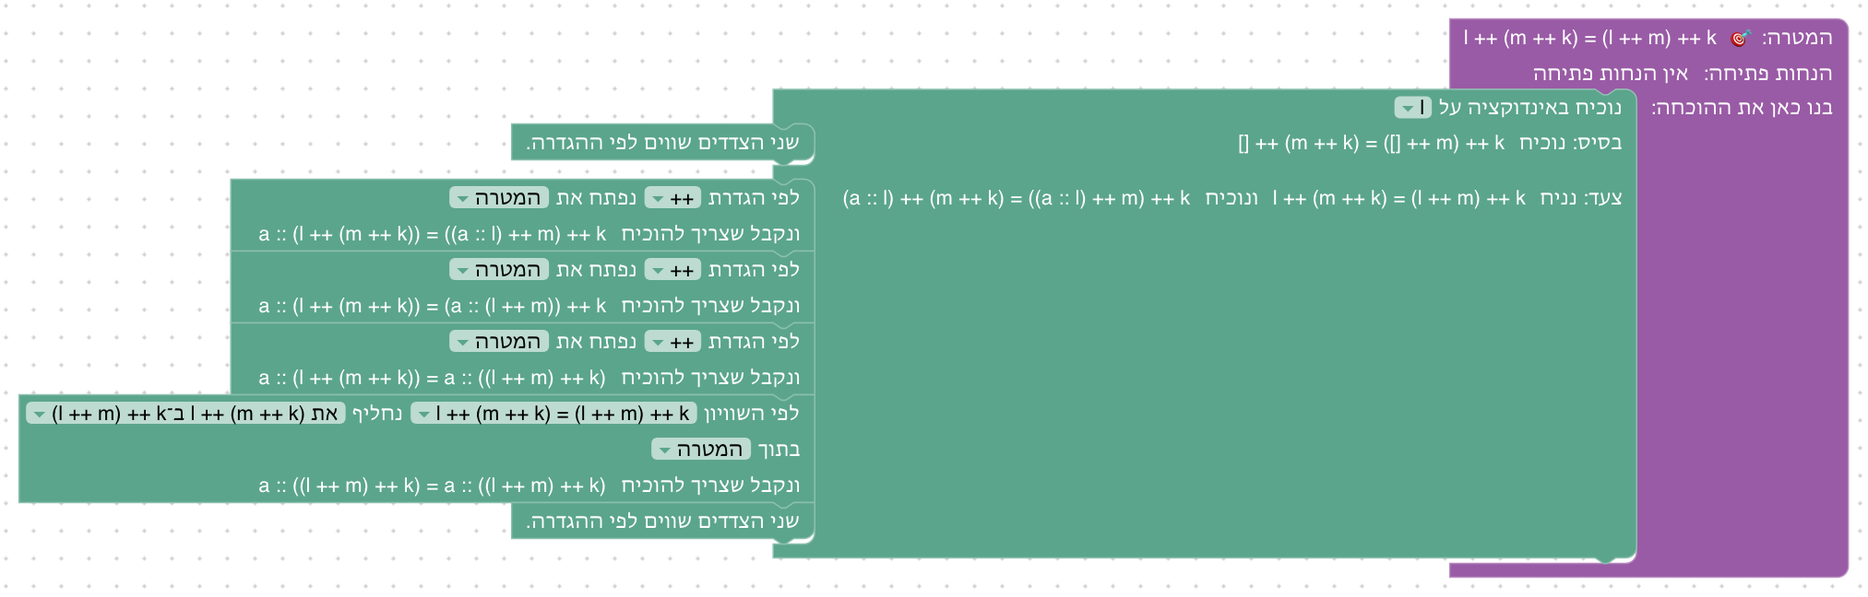
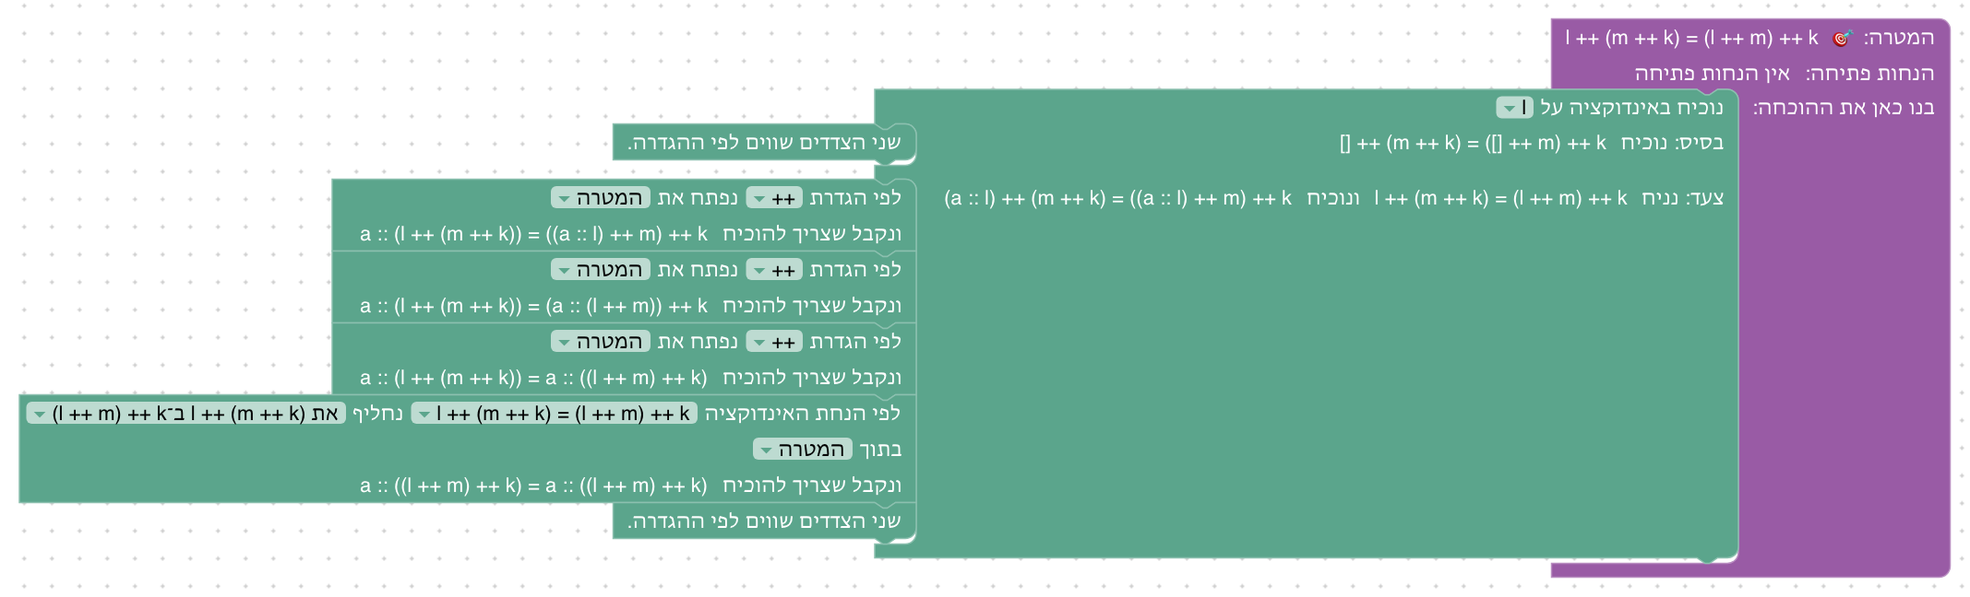
Name the induction hypothesis where a move uses it
In a step of an induction, a substitution by one of its hypotheses reads
"לפי הנחת האינדוקציה … נחליף …", closing with one reads "זו בדיוק הנחת
האינדוקציה.", and arithmetic or algebra whose only assumptions are the
induction hypotheses reads "… ומהנחת/ומהנחות האינדוקציה.", as written proofs
say "by the induction hypothesis". A move finds the hypotheses by the
heading of the step it is in; elsewhere the wording is as before.

Changed region(s): [[0.0, 0.0309, 0.9956, 0.9568], [0.1556, 0.8025, 0.4667, 0.9568], [0.7778, 0.9259, 0.8089, 0.9877]]

diff --git a/frontend/src/blocks/moves.js b/frontend/src/blocks/moves.js
@@ -445,6 +445,47 @@ const followResult = {
         this.updateText();
     },
 };
+// The induction hypotheses where a move is: in a step of an induction, the
+// statements its heading assumes ("נניח P(l) ו־P(r)"), as Lean spells them,
+// so that a move that uses one says so, as written proofs do ("לפי הנחת
+// האינדוקציה"). The nearest induction around the move counts.
+const inductionHypotheses = (block) => {
+    for (let child = block, parent = block.getSurroundParent(); parent; child = parent, parent = parent.getSurroundParent()) {
+        if (parent.type !== 'induction') continue;
+        let first = child;
+        while (first.getPreviousBlock() && first.getPreviousBlock() !== parent) first = first.getPreviousBlock();
+        const input = parent.inputList.find((candidate) => candidate.connection?.targetBlock() === first);
+        const part = STRUCTURES[parent.structure || 'Nat'].find(({ input: name }) => name === input?.name);
+        const variable = parent.getFieldValue('VARIABLE');
+        const goal = parent.stateBefore?.goal;
+        if (!part || !filled(variable) || !goal) return [];
+        return part.hypotheses(variable).map((name) => substitute(goal, variable, name));
+    }
+    return [];
+};
+const isInductionHypothesis = (block, statement) => filled(statement) && inductionHypotheses(block).some((hypothesis) => sameStatement(hypothesis, statement));
+
+// A label set by the move's text, without firing events.
+const setLabel = (block, name, text) => {
+    const field = block.getField(name);
+    if (!field || field.getValue() === text) return;
+    Blockly.Events.disable();
+    try {
+        field.setValue(text);
+    } finally {
+        Blockly.Events.enable();
+    }
+};
+
+// "ומההנחות שבידינו", or, in a step whose only assumptions in hand are its
+// induction hypotheses, "ומהנחת/ומהנחות האינדוקציה".
+const fromAssumptions = (block) => {
+    const inHand = block.stateBefore?.assumptions || [];
+    const hypotheses = inductionHypotheses(block);
+    if (!inHand.length || !inHand.every((statement) => hypotheses.some((hypothesis) => sameStatement(hypothesis, statement)))) return 'ומההנחות שבידינו.';
+    return inHand.length === 1 ? 'ומהנחת האינדוקציה.' : 'ומהנחות האינדוקציה.';
+};
+
 const appendResult = (block) => appendPhrase(block, block.appendDummyInput('RESULTROW'), 'RESULT');
 const setResult = (block, target) => {
     const after = block.stateAfter;
@@ -461,8 +502,15 @@ export const defineMoveBlocks = () => {
     // for it among everything in hand, so the student does not point to it.
     Blockly.Blocks['exact'] = {
         init() {
-            this.appendDummyInput().appendField('יש לנו ביד בדיוק את מה שאנחנו רוצים להוכיח.');
+            this.appendDummyInput().appendField(new Blockly.FieldLabel('יש לנו ביד בדיוק את מה שאנחנו רוצים להוכיח.'), 'TEXT');
             move(this, 'כאשר אחת ההנחות אומרת בדיוק את מה שרוצים להוכיח, ההוכחה הושלמה.');
+        },
+        ...followState,
+        // In a step whose goal is its induction hypothesis, says so.
+        updateText() {
+            setLabel(this, 'TEXT', isInductionHypothesis(this, this.stateBefore?.goal)
+                ? 'זו בדיוק הנחת האינדוקציה.'
+                : 'יש לנו ביד בדיוק את מה שאנחנו רוצים להוכיח.');
         },
     };
 
@@ -963,7 +1011,7 @@ export const defineMoveBlocks = () => {
     Blockly.Blocks['rewrite'] = {
         init() {
             this.appendDummyInput()
-                .appendField('לפי השוויון')
+                .appendField(new Blockly.FieldLabel('לפי השוויון'), 'BY')
                 .appendField(new FieldAssumption({ filter: (formula) => Boolean(splitRelation(formula, '=')) }), 'EQUATION')
                 .appendField('נחליף')
                 .appendField(new FieldDirection(), 'DIRECTION');
@@ -976,13 +1024,12 @@ export const defineMoveBlocks = () => {
         },
         ...followResult,
         updateText() {
+            setLabel(this, 'BY', isInductionHypothesis(this, this.getFieldValue('EQUATION')) ? 'לפי הנחת האינדוקציה' : 'לפי השוויון');
             this.getField('DIRECTION')?.refreshText();
             setResult(this, this.getFieldValue('TARGET'));
         },
     };
 
-    // Induction on a natural number: the base 0, and the step from n to n + 1,
-    // each in a part headed by what is proved in it.
     // Induction (units 8 and 9): a part for each way the level's structure is
     // built, a basis for each one without parts like it, and a step, with an
     // induction hypothesis for each part like it, for each of the others.
@@ -1052,8 +1099,12 @@ export const defineMoveBlocks = () => {
 
     Blockly.Blocks['calc_hyps'] = {
         init() {
-            this.appendDummyInput().appendField('נכונות המטרה נובעת מחשבון פשוט ומההנחות שבידינו.');
+            this.appendDummyInput().appendField('נכונות המטרה נובעת מחשבון פשוט').appendField(new Blockly.FieldLabel('ומההנחות שבידינו.'), 'FROM');
             move(this, 'סוגר מטרה של חשבון פשוט (חיבור, כפל במספר, אי־שוויונות) בעזרת ההנחות שבידינו, למשל אי־שוויון שאי אפשר להחליף לפיו. לא פותח הגדרות.');
+        },
+        ...followState,
+        updateText() {
+            setLabel(this, 'FROM', fromAssumptions(this));
         },
     };
 
@@ -1066,8 +1117,12 @@ export const defineMoveBlocks = () => {
 
     Blockly.Blocks['algebra_hyps'] = {
         init() {
-            this.appendDummyInput().appendField('נכונות המטרה נובעת מאלגברה ומההנחות שבידינו.');
+            this.appendDummyInput().appendField('נכונות המטרה נובעת מאלגברה').appendField(new Blockly.FieldLabel('ומההנחות שבידינו.'), 'FROM');
             move(this, 'סוגר מטרה של אלגברה (פתיחת סוגריים, כינוס איברים) בעזרת ההנחות שבידינו. לא פותח הגדרות.');
+        },
+        ...followState,
+        updateText() {
+            setLabel(this, 'FROM', fromAssumptions(this));
         },
     };
 };

diff --git a/frontend/e2e/solutions.spec.js b/frontend/e2e/solutions.spec.js
@@ -105,6 +105,36 @@ test('arithmetic from the goal alone does not use the induction hypothesis', asy
     await expect(page.getByText('הצלחה!')).toHaveCount(0);
 });
 
+// A block's text as shown, all its rows.
+const blockText = (page, blockId) => page.evaluate((id) => window.__easyleanWorkspace.getBlockById(id).inputList
+    .map((input) => input.fieldRow.filter((f) => f.isVisible()).map((f) => f.getText()).join(' ')).join(' / ')
+    .replace(/[\u2066\u2067\u2069]/g, ''), blockId);
+
+test('a move that uses an induction hypothesis says so', async ({ page }) => {
+    const unit = (number) => UNITS.find(({ unit: candidate }) => candidate === number);
+    await openLevel(page, unit(9).world, 0);
+    await clearProof(page);
+    const [, , , rewrite] = await buildProof(page, unit(9).levels[0][0].steps);
+    await expect.poll(() => blockText(page, rewrite)).toMatch(/^לפי הנחת האינדוקציה l \+\+ \[\] = l נחליף/);
+    await openLevel(page, unit(9).world, 6);
+    await clearProof(page);
+    const [, , , , close] = await buildProof(page, unit(9).levels[6][0].steps);
+    await expect.poll(() => blockText(page, close)).toBe('זו בדיוק הנחת האינדוקציה.');
+    await openLevel(page, unit(9).world, 4);
+    await clearProof(page);
+    const steps = await buildProof(page, unit(9).levels[4][0].steps);
+    await expect.poll(() => blockText(page, steps.at(-1))).toBe('נכונות המטרה נובעת מחשבון פשוט ומהנחות האינדוקציה.');
+    // Outside an induction, the moves read as before.
+    await openLevel(page, unit(8).world, 6);
+    await clearProof(page);
+    const [, calc] = await buildProof(page, unit(8).levels[6][0].steps);
+    await expect.poll(() => blockText(page, calc)).toBe('נכונות המטרה נובעת מחשבון פשוט ומההנחות שבידינו.');
+    await openLevel(page, unit(8).world, 2);
+    await clearProof(page);
+    const [byEquality] = await buildProof(page, unit(8).levels[2][0].steps);
+    await expect.poll(() => blockText(page, byEquality)).toMatch(/^לפי השוויון a = b נחליף/);
+});
+
 test('a move offers the assumptions in hand before it, and reads like a written proof', async ({ page }) => {
     await openLevel(page, UNIT1, 4);
     const [first, second, third, forward] = await buildProof(page, [['assume'], ['assume'], ['assume'], ['forward']]);

diff --git a/frontend/src/game/unit8World.js b/frontend/src/game/unit8World.js
@@ -32,7 +32,7 @@ const rewriteInfo = {
 };
 const inductionInfo = {
     name: 'הוכחה באינדוקציה',
-    doc: 'כדי להוכיח טענה P(n) לכל מספר טבעי n: מוכיחים P(0) (בסיס), ומניחים P(n) (הנחת האינדוקציה) ומוכיחים P(n + 1) (צעד).',
+    doc: 'כדי להוכיח טענה P(n) לכל מספר טבעי n: מוכיחים P(0) (בסיס), ומניחים P(n) (הנחת האינדוקציה) ומוכיחים P(n + 1) (צעד). מהלך שמשתמש בהנחת האינדוקציה כותב זאת, כמו בהוכחה כתובה: "לפי הנחת האינדוקציה ...".',
 };
 const unfoldInfo = {
     name: 'פתיחת הגדרה',

diff --git a/docs/curriculum/09-structural-induction.md b/docs/curriculum/09-structural-induction.md
@@ -24,7 +24,7 @@
 | מהלך | Lean | לפני → אחרי | בשלבים |
 |---|---|---|---|
 | **שוויון לפי ההגדרה (יחידה 8):** שני הצדדים שווים לפי ההגדרה. | `rfl` | `⊢ [] ++ [] = []` ⟶ סגור | 9.1, 9.3, 9.4, 9.6–9.9 |
-| **החלפה לפי שוויון (יחידה 8):** לפי השוויון [l ++ [] = l] נחליף [את l ++ [] ב־l] בתוך [המטרה], ונקבל שצריך להוכיח a :: l = a :: l | `rewrite [‹l ++ [] = l›]` | `l ++ [] = l ⊢ a :: (l ++ []) = a :: l` ⟶ `l ++ [] = l ⊢ a :: l = a :: l` | 9.1–9.4, 9.6–9.9 |
+| **החלפה לפי שוויון (יחידה 8):** לפי הנחת האינדוקציה [l ++ [] = l] נחליף [את l ++ [] ב־l] בתוך [המטרה], ונקבל שצריך להוכיח a :: l = a :: l | `rewrite [‹l ++ [] = l›]` | `l ++ [] = l ⊢ a :: (l ++ []) = a :: l` ⟶ `l ++ [] = l ⊢ a :: l = a :: l` | 9.1–9.4, 9.6–9.9 |
 | **חשבון (יחידה 8):** נכונות המטרה נובעת מחשבון פשוט. | `easylean_goal_only; omega` | `leaves(l) = nodes(l) + 1, leaves(r) = nodes(r) + 1 ⊢ nodes(l) + 1 + (nodes(r) + 1) = nodes(l) + nodes(r) + 1 + 1` ⟶ סגור, מהמטרה לבדה | 9.2, 9.4, 9.5, 9.8, 9.9 |
 | **חשבון בעזרת ההנחות (יחידה 8):** נכונות המטרה נובעת מחשבון פשוט ומההנחות שבידינו. | `omega` | `height(l) ≤ nodes(l), height(r) ≤ nodes(r) ⊢ max(height(l),height(r)) + 1 ≤ nodes(l) + nodes(r) + 1` ⟶ סגור, בעזרת שתי ההנחות | 9.5 |
 | **זה בדיוק (יחידה 0):** יש לנו ביד בדיוק את מה שאנחנו רוצים להוכיח. | `assumption` | `opening(φ) = closing(φ) ⊢ opening(φ) = closing(φ)` ⟶ סגור | 9.7–9.9 |
@@ -75,7 +75,7 @@
 
 **למה כך.** טקסט הפתיחה מתחיל מיחידה 8 (המספרים בנויים מ־0 ומ־n + 1) ומעביר את אותו רעיון לרשימות. הטענה מקבילה ל־0 + n = n של שלב 8.6: השרשור עם [] משמאל נכון לפי ההגדרה, אבל מימין הוא דורש אינדוקציה, והטקסט אומר זאת. גם המהלכים הם בדיוק של 8.6 (פתיחת הגדרה, החלפה לפי הנחת האינדוקציה, שוויון לפי ההגדרה), כך שהדבר החדש היחיד הוא המבנה. אין חשבון בארגז, ולכן משתמשים בהנחת האינדוקציה במפורש. זה אחד התרגילים על רשימות ב־Theorem Proving in Lean.
 
-**פתרון.** "נוכיח באינדוקציה על l." בחלק "בסיס: נוכיח [] ++ [] = []": "שני הצדדים שווים לפי ההגדרה." בחלק "צעד: נניח l ++ [] = l ונוכיח (a :: l) ++ [] = a :: l": "לפי הגדרת ++ נפתח את המטרה, ונקבל שצריך להוכיח a :: (l ++ []) = a :: l"; "לפי השוויון l ++ [] = l נחליף את l ++ [] ב־l בתוך המטרה, ונקבל שצריך להוכיח a :: l = a :: l"; ו"שני הצדדים שווים לפי ההגדרה."
+**פתרון.** "נוכיח באינדוקציה על l." בחלק "בסיס: נוכיח [] ++ [] = []": "שני הצדדים שווים לפי ההגדרה." בחלק "צעד: נניח l ++ [] = l ונוכיח (a :: l) ++ [] = a :: l": "לפי הגדרת ++ נפתח את המטרה, ונקבל שצריך להוכיח a :: (l ++ []) = a :: l"; "לפי הנחת האינדוקציה l ++ [] = l נחליף את l ++ [] ב־l בתוך המטרה, ונקבל שצריך להוכיח a :: l = a :: l"; ו"שני הצדדים שווים לפי ההגדרה."
 
 ![שלב 9.1](images/unit9-level1-a.png)
 
@@ -93,7 +93,7 @@
 
 **למה כך.** זו הדוגמה של Rosen למחרוזות (האורך של שרשור הוא סכום האורכים), ותרגיל ב־Theorem Proving in Lean. ברשימת המשתנים של האינדוקציה יש גם l וגם m, והטקסט מסביר למה בוחרים ב־l. בצעד פותחים שלוש פעמים, ורואים שכל פתיחה מפרקת מקום אחר במטרה. אחרי הפתיחות length(l ++ m) מופיע במטרה, כמו בהנחת האינדוקציה: מחליפים לפיה במפורש, ואת השאר משלים החשבון מהמטרה לבדה (ראו שאלה (א) בסוף).
 
-**פתרון.** "נוכיח באינדוקציה על l." בחלק "בסיס: נוכיח length([] ++ m) = length([]) + length(m)": "לפי הגדרת ++ נפתח את המטרה, ונקבל שצריך להוכיח length(m) = length([]) + length(m)"; "לפי הגדרת length נפתח את המטרה, ונקבל שצריך להוכיח length(m) = 0 + length(m)"; "נכונות המטרה נובעת מחשבון פשוט." בחלק "צעד: נניח length(l ++ m) = length(l) + length(m) ונוכיח length((a :: l) ++ m) = length(a :: l) + length(m)": "לפי הגדרת ++ נפתח את המטרה, ונקבל שצריך להוכיח length(a :: (l ++ m)) = length(a :: l) + length(m)"; "לפי הגדרת length נפתח את המטרה", פעמיים, פעם לכל צד, ונקבל שצריך להוכיח length(l ++ m) + 1 = length(l) + 1 + length(m); "לפי השוויון length(l ++ m) = length(l) + length(m) נחליף את length(l ++ m) ב־length(l) + length(m) בתוך המטרה, ונקבל שצריך להוכיח length(l) + length(m) + 1 = length(l) + 1 + length(m)"; ו"נכונות המטרה נובעת מחשבון פשוט."
+**פתרון.** "נוכיח באינדוקציה על l." בחלק "בסיס: נוכיח length([] ++ m) = length([]) + length(m)": "לפי הגדרת ++ נפתח את המטרה, ונקבל שצריך להוכיח length(m) = length([]) + length(m)"; "לפי הגדרת length נפתח את המטרה, ונקבל שצריך להוכיח length(m) = 0 + length(m)"; "נכונות המטרה נובעת מחשבון פשוט." בחלק "צעד: נניח length(l ++ m) = length(l) + length(m) ונוכיח length((a :: l) ++ m) = length(a :: l) + length(m)": "לפי הגדרת ++ נפתח את המטרה, ונקבל שצריך להוכיח length(a :: (l ++ m)) = length(a :: l) + length(m)"; "לפי הגדרת length נפתח את המטרה", פעמיים, פעם לכל צד, ונקבל שצריך להוכיח length(l ++ m) + 1 = length(l) + 1 + length(m); "לפי הנחת האינדוקציה length(l ++ m) = length(l) + length(m) נחליף את length(l ++ m) ב־length(l) + length(m) בתוך המטרה, ונקבל שצריך להוכיח length(l) + length(m) + 1 = length(l) + 1 + length(m)"; ו"נכונות המטרה נובעת מחשבון פשוט."
 
 ![שלב 9.2](images/unit9-level2-a.png)
 
@@ -110,7 +110,7 @@
 
 **למה כך.** האסוציאטיביות של השרשור, כמו של החיבור ב־Natural Number Game, היא תרגיל נוסף על רשימות ב־Theorem Proving in Lean. היא החליפה את length(reverse(l)) = length(l) של התכנית המקורית (ראו ההחלטה בתחילת המסמך). בבסיס [] משמאל, ולכן שני הצדדים שווים לפי ההגדרה בלי לפתוח דבר; בצעד a :: l מופיעה משמאל לשלושה שרשורים, וכל פתיחה מוציאה את a החוצה מאחד מהם. אין חשבון בארגז, ולכן ההחלפה לפי הנחת האינדוקציה היא חלק הכרחי מההוכחה.
 
-**פתרון.** "נוכיח באינדוקציה על l." בחלק "בסיס: נוכיח [] ++ (m ++ k) = ([] ++ m) ++ k": "שני הצדדים שווים לפי ההגדרה." בחלק "צעד: נניח l ++ (m ++ k) = (l ++ m) ++ k ונוכיח (a :: l) ++ (m ++ k) = ((a :: l) ++ m) ++ k": "לפי הגדרת ++ נפתח את המטרה", שלוש פעמים, ובסוף נקבל שצריך להוכיח a :: (l ++ (m ++ k)) = a :: ((l ++ m) ++ k); "לפי השוויון l ++ (m ++ k) = (l ++ m) ++ k נחליף את l ++ (m ++ k) ב־(l ++ m) ++ k בתוך המטרה, ונקבל שצריך להוכיח a :: ((l ++ m) ++ k) = a :: ((l ++ m) ++ k)"; ו"שני הצדדים שווים לפי ההגדרה."
+**פתרון.** "נוכיח באינדוקציה על l." בחלק "בסיס: נוכיח [] ++ (m ++ k) = ([] ++ m) ++ k": "שני הצדדים שווים לפי ההגדרה." בחלק "צעד: נניח l ++ (m ++ k) = (l ++ m) ++ k ונוכיח (a :: l) ++ (m ++ k) = ((a :: l) ++ m) ++ k": "לפי הגדרת ++ נפתח את המטרה", שלוש פעמים, ובסוף נקבל שצריך להוכיח a :: (l ++ (m ++ k)) = a :: ((l ++ m) ++ k); "לפי הנחת האינדוקציה l ++ (m ++ k) = (l ++ m) ++ k נחליף את l ++ (m ++ k) ב־(l ++ m) ++ k בתוך המטרה, ונקבל שצריך להוכיח a :: ((l ++ m) ++ k) = a :: ((l ++ m) ++ k)"; ו"שני הצדדים שווים לפי ההגדרה."
 
 ![שלב 9.3](images/unit9-level3-a.png)
 
@@ -127,7 +127,7 @@
 
 **למה כך.** העצים כאן הם העצים הבינאריים המלאים של Rosen (עלה, או שורש חדש ששני הילדים שלו הם עצים), ו־nodes סופרת את הצמתים הפנימיים בלבד. הטענה שבעץ בינארי מלא יש עלה אחד יותר מצמתים פנימיים היא מהקלסיות. הבלוק כותב את שתי ההנחות בכותרת של הצעד, כך שהסטודנט רואה שהן שתיים לפני שהוא מתחיל. אחרי הפתיחה leaves(l) ו־leaves(r) מופיעים במטרה, ומחליפים לפי כל אחת משתי ההנחות במפורש; את השאר משלים החשבון מהמטרה לבדה.
 
-**פתרון.** "נוכיח באינדוקציה על t." בחלק "בסיס: נוכיח leaves(leaf) = nodes(leaf) + 1": "שני הצדדים שווים לפי ההגדרה." (1 = 0 + 1). בחלק "צעד: נניח leaves(l) = nodes(l) + 1 ו־leaves(r) = nodes(r) + 1 ונוכיח leaves(node(l,r)) = nodes(node(l,r)) + 1": "לפי הגדרת leaves נפתח את המטרה, ונקבל שצריך להוכיח leaves(l) + leaves(r) = nodes(node(l,r)) + 1"; "לפי הגדרת nodes נפתח את המטרה, ונקבל שצריך להוכיח leaves(l) + leaves(r) = nodes(l) + nodes(r) + 1 + 1"; "לפי השוויון leaves(l) = nodes(l) + 1 נחליף את leaves(l) ב־nodes(l) + 1 בתוך המטרה, ונקבל שצריך להוכיח nodes(l) + 1 + leaves(r) = nodes(l) + nodes(r) + 1 + 1"; "לפי השוויון leaves(r) = nodes(r) + 1 נחליף את leaves(r) ב־nodes(r) + 1 בתוך המטרה, ונקבל שצריך להוכיח nodes(l) + 1 + (nodes(r) + 1) = nodes(l) + nodes(r) + 1 + 1"; ו"נכונות המטרה נובעת מחשבון פשוט."
+**פתרון.** "נוכיח באינדוקציה על t." בחלק "בסיס: נוכיח leaves(leaf) = nodes(leaf) + 1": "שני הצדדים שווים לפי ההגדרה." (1 = 0 + 1). בחלק "צעד: נניח leaves(l) = nodes(l) + 1 ו־leaves(r) = nodes(r) + 1 ונוכיח leaves(node(l,r)) = nodes(node(l,r)) + 1": "לפי הגדרת leaves נפתח את המטרה, ונקבל שצריך להוכיח leaves(l) + leaves(r) = nodes(node(l,r)) + 1"; "לפי הגדרת nodes נפתח את המטרה, ונקבל שצריך להוכיח leaves(l) + leaves(r) = nodes(l) + nodes(r) + 1 + 1"; "לפי הנחת האינדוקציה leaves(l) = nodes(l) + 1 נחליף את leaves(l) ב־nodes(l) + 1 בתוך המטרה, ונקבל שצריך להוכיח nodes(l) + 1 + leaves(r) = nodes(l) + nodes(r) + 1 + 1"; "לפי הנחת האינדוקציה leaves(r) = nodes(r) + 1 נחליף את leaves(r) ב־nodes(r) + 1 בתוך המטרה, ונקבל שצריך להוכיח nodes(l) + 1 + (nodes(r) + 1) = nodes(l) + nodes(r) + 1 + 1"; ו"נכונות המטרה נובעת מחשבון פשוט."
 
 ![שלב 9.4](images/unit9-level4-a.png)
 
@@ -144,7 +144,7 @@
 
 **למה כך.** Rosen מוכיח על עצים בינאריים מלאים אי־שוויון בין מספר הצמתים לגובה (עם חזקה של 2). כאן הגרסה הלינארית, שהחשבון יודע לסגור (הוא מכיר את max), כדי שהעיקר יהיה המבנה של ההוכחה ולא האלגברה. כמו בשלב 8.8, הנחות האינדוקציה הן אי־שוויונות, ואין מה להחליף לפיהן: בצעד משתמשים בהן בחשבון בעזרת ההנחות, וטקסט הפתיחה אומר זאת. בבסיס אין הנחות, ומספיק החשבון מהמטרה לבדה. גם בבסיס פותחים הגדרה, כי החשבון לא יודע מה height(leaf).
 
-**פתרון.** "נוכיח באינדוקציה על t." בחלק "בסיס: נוכיח height(leaf) ≤ nodes(leaf)": "לפי הגדרת height נפתח את המטרה, ונקבל שצריך להוכיח 0 ≤ nodes(leaf)"; "לפי הגדרת nodes נפתח את המטרה, ונקבל שצריך להוכיח 0 ≤ 0"; "נכונות המטרה נובעת מחשבון פשוט." בחלק "צעד: נניח height(l) ≤ nodes(l) ו־height(r) ≤ nodes(r) ונוכיח height(node(l,r)) ≤ nodes(node(l,r))": "לפי הגדרת height נפתח את המטרה, ונקבל שצריך להוכיח max(height(l),height(r)) + 1 ≤ nodes(node(l,r))"; "לפי הגדרת nodes נפתח את המטרה, ונקבל שצריך להוכיח max(height(l),height(r)) + 1 ≤ nodes(l) + nodes(r) + 1"; ו"נכונות המטרה נובעת מחשבון פשוט ומההנחות שבידינו."
+**פתרון.** "נוכיח באינדוקציה על t." בחלק "בסיס: נוכיח height(leaf) ≤ nodes(leaf)": "לפי הגדרת height נפתח את המטרה, ונקבל שצריך להוכיח 0 ≤ nodes(leaf)"; "לפי הגדרת nodes נפתח את המטרה, ונקבל שצריך להוכיח 0 ≤ 0"; "נכונות המטרה נובעת מחשבון פשוט." בחלק "צעד: נניח height(l) ≤ nodes(l) ו־height(r) ≤ nodes(r) ונוכיח height(node(l,r)) ≤ nodes(node(l,r))": "לפי הגדרת height נפתח את המטרה, ונקבל שצריך להוכיח max(height(l),height(r)) + 1 ≤ nodes(node(l,r))"; "לפי הגדרת nodes נפתח את המטרה, ונקבל שצריך להוכיח max(height(l),height(r)) + 1 ≤ nodes(l) + nodes(r) + 1"; ו"נכונות המטרה נובעת מחשבון פשוט ומהנחות האינדוקציה."
 
 ![שלב 9.5](images/unit9-level5-a.png)
 
@@ -161,7 +161,7 @@
 
 **למה כך.** אין כאן חשבון: כל צעד הוא פתיחת הגדרה, החלפה או שוויון לפי ההגדרה, כמו ב־9.1 וב־8.6. כמו ב־9.4, כל אחת משתי ההנחות מופיעה בהחלפה משלה, אבל כאן מה שנשאר אחרי ההחלפות הוא שוויון של עצים, ששני צדדיו זהים. את mirror פותחים פעמיים: קודם את הפנימית (היא זו שמופעלת על node(l,r)), ואז את החיצונית, שעכשיו מופעלת על node.
 
-**פתרון.** "נוכיח באינדוקציה על t." בחלק "בסיס: נוכיח mirror(mirror(leaf)) = leaf": "שני הצדדים שווים לפי ההגדרה." בחלק "צעד: נניח mirror(mirror(l)) = l ו־mirror(mirror(r)) = r ונוכיח mirror(mirror(node(l,r))) = node(l,r)": "לפי הגדרת mirror נפתח את המטרה, ונקבל שצריך להוכיח mirror(node(mirror(r),mirror(l))) = node(l,r)"; שוב "לפי הגדרת mirror נפתח את המטרה, ונקבל שצריך להוכיח node(mirror(mirror(l)),mirror(mirror(r))) = node(l,r)"; "לפי השוויון mirror(mirror(l)) = l נחליף את mirror(mirror(l)) ב־l בתוך המטרה, ונקבל שצריך להוכיח node(l,mirror(mirror(r))) = node(l,r)"; "לפי השוויון mirror(mirror(r)) = r נחליף את mirror(mirror(r)) ב־r בתוך המטרה, ונקבל שצריך להוכיח node(l,r) = node(l,r)"; ו"שני הצדדים שווים לפי ההגדרה."
+**פתרון.** "נוכיח באינדוקציה על t." בחלק "בסיס: נוכיח mirror(mirror(leaf)) = leaf": "שני הצדדים שווים לפי ההגדרה." בחלק "צעד: נניח mirror(mirror(l)) = l ו־mirror(mirror(r)) = r ונוכיח mirror(mirror(node(l,r))) = node(l,r)": "לפי הגדרת mirror נפתח את המטרה, ונקבל שצריך להוכיח mirror(node(mirror(r),mirror(l))) = node(l,r)"; שוב "לפי הגדרת mirror נפתח את המטרה, ונקבל שצריך להוכיח node(mirror(mirror(l)),mirror(mirror(r))) = node(l,r)"; "לפי הנחת האינדוקציה mirror(mirror(l)) = l נחליף את mirror(mirror(l)) ב־l בתוך המטרה, ונקבל שצריך להוכיח node(l,mirror(mirror(r))) = node(l,r)"; "לפי הנחת האינדוקציה mirror(mirror(r)) = r נחליף את mirror(mirror(r)) ב־r בתוך המטרה, ונקבל שצריך להוכיח node(l,r) = node(l,r)"; ו"שני הצדדים שווים לפי ההגדרה."
 
 ![שלב 9.6](images/unit9-level6-a.png)
 
@@ -177,7 +177,7 @@
 
 **למה כך.** הסוגריים המאוזנים הם הדוגמה הראשונה של Enderton לעקרון האינדוקציה על נוסחאות, והטענה מופיעה גם ב־Huth & Ryan ובתרגילים של Rosen. הנוסחאות כתובות כפונקציות (ההחלטה בתחילת המסמך), והטקסט מסביר שהן נכתבות ¬φ ו־(φ ∧ ψ), כך ש־opening ו־closing סופרות את הסוגריים של הכתיב: ∧ מוסיף זוג, ¬ לא מוסיף. כדי שיהיו רק שלושה חלקים, יש רק ¬ ו־∧; שאר הקשרים בבונוס. בצעד של ¬, אחרי הפתיחה, נשארת בדיוק הנחת האינדוקציה, ו"יש לנו ביד" סוגר: הנחת האינדוקציה היא הנחה רגילה. בצעד של ∧, אחרי הפתיחה, opening(φ) ו־opening(ψ) מופיעים במטרה, ומחליפים לפי שתי הנחות האינדוקציה, כמו ב־9.4; אחרי ההחלפות שני הצדדים זהים, ולכן אין צורך בחשבון, ואין חשבון בארגז.
 
-**פתרון.** "נוכיח באינדוקציה על φ." בחלק "בסיס: נוכיח opening(atom(i)) = closing(atom(i))": "שני הצדדים שווים לפי ההגדרה." בחלק "צעד: נניח opening(φ) = closing(φ) ונוכיח opening(neg(φ)) = closing(neg(φ))": "לפי הגדרת opening נפתח את המטרה, ונקבל שצריך להוכיח opening(φ) = closing(neg(φ))"; "לפי הגדרת closing נפתח את המטרה, ונקבל שצריך להוכיח opening(φ) = closing(φ)"; "יש לנו ביד בדיוק את מה שאנחנו רוצים להוכיח." בחלק "צעד: נניח opening(φ) = closing(φ) ו־opening(ψ) = closing(ψ) ונוכיח opening(conj(φ,ψ)) = closing(conj(φ,ψ))": פותחים את opening ואת closing, ונקבל שצריך להוכיח opening(φ) + opening(ψ) + 1 = closing(φ) + closing(ψ) + 1; "לפי השוויון opening(φ) = closing(φ) נחליף את opening(φ) ב־closing(φ) בתוך המטרה"; "לפי השוויון opening(ψ) = closing(ψ) נחליף את opening(ψ) ב־closing(ψ) בתוך המטרה, ונקבל שצריך להוכיח closing(φ) + closing(ψ) + 1 = closing(φ) + closing(ψ) + 1"; ו"שני הצדדים שווים לפי ההגדרה."
+**פתרון.** "נוכיח באינדוקציה על φ." בחלק "בסיס: נוכיח opening(atom(i)) = closing(atom(i))": "שני הצדדים שווים לפי ההגדרה." בחלק "צעד: נניח opening(φ) = closing(φ) ונוכיח opening(neg(φ)) = closing(neg(φ))": "לפי הגדרת opening נפתח את המטרה, ונקבל שצריך להוכיח opening(φ) = closing(neg(φ))"; "לפי הגדרת closing נפתח את המטרה, ונקבל שצריך להוכיח opening(φ) = closing(φ)"; "זו בדיוק הנחת האינדוקציה." בחלק "צעד: נניח opening(φ) = closing(φ) ו־opening(ψ) = closing(ψ) ונוכיח opening(conj(φ,ψ)) = closing(conj(φ,ψ))": פותחים את opening ואת closing, ונקבל שצריך להוכיח opening(φ) + opening(ψ) + 1 = closing(φ) + closing(ψ) + 1; "לפי הנחת האינדוקציה opening(φ) = closing(φ) נחליף את opening(φ) ב־closing(φ) בתוך המטרה"; "לפי הנחת האינדוקציה opening(ψ) = closing(ψ) נחליף את opening(ψ) ב־closing(ψ) בתוך המטרה, ונקבל שצריך להוכיח closing(φ) + closing(ψ) + 1 = closing(φ) + closing(ψ) + 1"; ו"שני הצדדים שווים לפי ההגדרה."
 
 ![שלב 9.7](images/unit9-level7-a.png)
 
@@ -195,7 +195,7 @@
 
 **למה כך.** הטענה היא שלב 9.4 בשפה של נוסחאות (atoms במקום leaves, binaries במקום nodes), והטקסט אומר זאת. ¬ הוא צומת עם ילד אחד, שלא משנה אף אחד מהמספרים, ולכן הצעד שלו נסגר בהנחת האינדוקציה, כמו ב־9.7. בצעד של ∧ מחליפים לפי שתי הנחות האינדוקציה, כמו ב־9.4, ואת השאר משלים החשבון מהמטרה לבדה. Rosen מביא טענות כאלה על נוסחאות כתרגילים לאינדוקציה מבנית.
 
-**פתרון.** "נוכיח באינדוקציה על φ." בחלק "בסיס: נוכיח atoms(atom(i)) = binaries(atom(i)) + 1": "שני הצדדים שווים לפי ההגדרה." בחלק "צעד: נניח atoms(φ) = binaries(φ) + 1 ונוכיח atoms(neg(φ)) = binaries(neg(φ)) + 1": פותחים את atoms ואת binaries, ונקבל שצריך להוכיח atoms(φ) = binaries(φ) + 1; ו"יש לנו ביד בדיוק את מה שאנחנו רוצים להוכיח." בחלק "צעד: נניח atoms(φ) = binaries(φ) + 1 ו־atoms(ψ) = binaries(ψ) + 1 ונוכיח atoms(conj(φ,ψ)) = binaries(conj(φ,ψ)) + 1": פותחים את atoms ואת binaries, ונקבל שצריך להוכיח atoms(φ) + atoms(ψ) = binaries(φ) + binaries(ψ) + 1 + 1; "לפי השוויון atoms(φ) = binaries(φ) + 1 נחליף את atoms(φ) ב־binaries(φ) + 1 בתוך המטרה"; "לפי השוויון atoms(ψ) = binaries(ψ) + 1 נחליף את atoms(ψ) ב־binaries(ψ) + 1 בתוך המטרה, ונקבל שצריך להוכיח binaries(φ) + 1 + (binaries(ψ) + 1) = binaries(φ) + binaries(ψ) + 1 + 1"; ו"נכונות המטרה נובעת מחשבון פשוט."
+**פתרון.** "נוכיח באינדוקציה על φ." בחלק "בסיס: נוכיח atoms(atom(i)) = binaries(atom(i)) + 1": "שני הצדדים שווים לפי ההגדרה." בחלק "צעד: נניח atoms(φ) = binaries(φ) + 1 ונוכיח atoms(neg(φ)) = binaries(neg(φ)) + 1": פותחים את atoms ואת binaries, ונקבל שצריך להוכיח atoms(φ) = binaries(φ) + 1; ו"זו בדיוק הנחת האינדוקציה." בחלק "צעד: נניח atoms(φ) = binaries(φ) + 1 ו־atoms(ψ) = binaries(ψ) + 1 ונוכיח atoms(conj(φ,ψ)) = binaries(conj(φ,ψ)) + 1": פותחים את atoms ואת binaries, ונקבל שצריך להוכיח atoms(φ) + atoms(ψ) = binaries(φ) + binaries(ψ) + 1 + 1; "לפי הנחת האינדוקציה atoms(φ) = binaries(φ) + 1 נחליף את atoms(φ) ב־binaries(φ) + 1 בתוך המטרה"; "לפי הנחת האינדוקציה atoms(ψ) = binaries(ψ) + 1 נחליף את atoms(ψ) ב־binaries(ψ) + 1 בתוך המטרה, ונקבל שצריך להוכיח binaries(φ) + 1 + (binaries(ψ) + 1) = binaries(φ) + binaries(ψ) + 1 + 1"; ו"נכונות המטרה נובעת מחשבון פשוט."
 
 ![שלב 9.8](images/unit9-level8-a.png)
 
@@ -212,13 +212,15 @@
 
 **למה כך.** אותה טענה כמו ב־9.8, כך שהדבר היחיד שמשתנה הוא המבנה (`Formula5`, עם `disj` ו־`imp`), והבלוק פותח חמישה חלקים במקום שלושה. אצל Rosen ואצל Enderton הנוסחאות בנויות מכל הקשרים, וכך רואים שההוכחה של 9.8 לא "תלויה" במקרה שיש רק ∧.
 
-**פתרון.** "נוכיח באינדוקציה על φ." בבסיס ("נוכיח atoms(atom(i)) = binaries(atom(i)) + 1"): "שני הצדדים שווים לפי ההגדרה." בצעד של ¬: פותחים את atoms ואת binaries, ו"יש לנו ביד בדיוק את מה שאנחנו רוצים להוכיח." בשלושת הצעדים של conj, disj ו־imp (למשל "צעד: נניח atoms(φ) = binaries(φ) + 1 ו־atoms(ψ) = binaries(ψ) + 1 ונוכיח atoms(disj(φ,ψ)) = binaries(disj(φ,ψ)) + 1"): פותחים את atoms ואת binaries; "לפי השוויון atoms(φ) = binaries(φ) + 1 נחליף את atoms(φ) ב־binaries(φ) + 1 בתוך המטרה"; "לפי השוויון atoms(ψ) = binaries(ψ) + 1 נחליף את atoms(ψ) ב־binaries(ψ) + 1 בתוך המטרה"; ו"נכונות המטרה נובעת מחשבון פשוט.", כמו בצעד של ∧ בשלב 9.8.
+**פתרון.** "נוכיח באינדוקציה על φ." בבסיס ("נוכיח atoms(atom(i)) = binaries(atom(i)) + 1"): "שני הצדדים שווים לפי ההגדרה." בצעד של ¬: פותחים את atoms ואת binaries, ו"זו בדיוק הנחת האינדוקציה." בשלושת הצעדים של conj, disj ו־imp (למשל "צעד: נניח atoms(φ) = binaries(φ) + 1 ו־atoms(ψ) = binaries(ψ) + 1 ונוכיח atoms(disj(φ,ψ)) = binaries(disj(φ,ψ)) + 1"): פותחים את atoms ואת binaries; "לפי הנחת האינדוקציה atoms(φ) = binaries(φ) + 1 נחליף את atoms(φ) ב־binaries(φ) + 1 בתוך המטרה"; "לפי הנחת האינדוקציה atoms(ψ) = binaries(ψ) + 1 נחליף את atoms(ψ) ב־binaries(ψ) + 1 בתוך המטרה"; ו"נכונות המטרה נובעת מחשבון פשוט.", כמו בצעד של ∧ בשלב 9.8.
 
 ![שלב 9.9](images/unit9-level9-a.png)
 
 **שיקולים ושאלות להכרעה.**
 - שלושה צעדים זהים, חמישה־עשר בלוקים שחוזרים על עצמם (בכל צעד שתי פתיחות, שתי החלפות וחשבון). בספרים כותבים "המקרים של ∨ ושל → דומים". אפשרות: מהלך שמעתיק הוכחה של חלק לחלקים האחרים, או הוכחה אחת לכל הקשרים הבינאריים (ב־Lean, `<;>` או `all_goals`). המחיר: הסטודנט לא רואה שכל חלק נבדק.
 - אין ↔. Enderton כולל אותו בין חמשת הקשרים שלו; כאן החמישה הם הפסוק, ¬ ושלושה קשרים בינאריים. אם מוסיפים ↔, יש צעד שישי זהה.
+
+**הנחת האינדוקציה בשמה.** הוחלט (לבקשת מחבר הקורס) שמהלך שמשתמש בהנחת האינדוקציה יאמר זאת, כמו בהוכחה כתובה: החלפה לפיה נכתבת "לפי הנחת האינדוקציה … נחליף …" (במקום "לפי השוויון"), סיום שהמטרה בו היא ההנחה נכתב "זו בדיוק הנחת האינדוקציה.", וחשבון או אלגברה כשההנחות היחידות שבידינו הן הנחות האינדוקציה נכתבים "… ומהנחות האינדוקציה." (או "ומהנחת", כשיש אחת). הבלוק מזהה את ההנחות לפי הכותרת של החלק "צעד" שהוא נמצא בו; מחוץ לאינדוקציה הניסוח לא משתנה.
 
 ## שאלות שנוגעות ליחידה כולה
 

diff --git a/docs/curriculum/08-equality-and-induction.md b/docs/curriculum/08-equality-and-induction.md
@@ -136,7 +136,7 @@
 
 **למה כך.** פונקציה פשוטה שמוגדרת ברקורסיה, כך שהמבנה של ההוכחה בולט: פתיחת ההגדרה, החלפה לפי הנחת האינדוקציה, חשבון. הטקסט מסביר את האינדוקציה כשרשרת "מ־0 ל־1, מ־1 ל־2". הכותרות של החלקים כותבות את הבסיס ואת הצעד לפי המטרה, כך שהסטודנט רואה מה בדיוק הנחת האינדוקציה ומה צריך להוכיח בצעד. החשבון כאן הוא מהמטרה לבדה, ולכן ההחלפה לפי הנחת האינדוקציה היא חלק הכרחי מההוכחה, והשימוש בהנחה גלוי.
 
-**פתרון.** "נוכיח באינדוקציה על n." בחלק "בסיס: נוכיח double(0) = 0 + 0": "לפי הגדרת double נפתח את המטרה, ונקבל שצריך להוכיח 0 = 0 + 0", ו"שני הצדדים שווים לפי ההגדרה." בחלק "צעד: נניח double(n) = n + n ונוכיח double(n + 1) = (n + 1) + (n + 1)": "לפי הגדרת double נפתח את המטרה, ונקבל שצריך להוכיח double(n) + 2 = n + 1 + (n + 1)"; "לפי השוויון double(n) = n + n נחליף את double(n) ב־n + n בתוך המטרה, ונקבל שצריך להוכיח n + n + 2 = n + 1 + (n + 1)"; ו"נכונות המטרה נובעת מחשבון פשוט."
+**פתרון.** "נוכיח באינדוקציה על n." בחלק "בסיס: נוכיח double(0) = 0 + 0": "לפי הגדרת double נפתח את המטרה, ונקבל שצריך להוכיח 0 = 0 + 0", ו"שני הצדדים שווים לפי ההגדרה." בחלק "צעד: נניח double(n) = n + n ונוכיח double(n + 1) = (n + 1) + (n + 1)": "לפי הגדרת double נפתח את המטרה, ונקבל שצריך להוכיח double(n) + 2 = n + 1 + (n + 1)"; "לפי הנחת האינדוקציה double(n) = n + n נחליף את double(n) ב־n + n בתוך המטרה, ונקבל שצריך להוכיח n + n + 2 = n + 1 + (n + 1)"; ו"נכונות המטרה נובעת מחשבון פשוט."
 
 ![שלב 8.5](images/unit8-level5-a.png)
 
@@ -153,7 +153,7 @@
 
 **למה כך.** הניגוד לשלב 8.1, כמו ב־Natural Number Game ("Wait, don't we already know that? No!"). אין חשבון בארגז: כל צעד הוא פתיחת הגדרה, החלפה או שוויון לפי ההגדרה, כך שהאינדוקציה עצמה במרכז. אם הסטודנט מנסה "שני הצדדים שווים לפי ההגדרה" ישירות, ההסבר אומר ששני הצדדים לא שווים לפי ההגדרות בלבד, ומציע אינדוקציה.
 
-**פתרון.** "נוכיח באינדוקציה על n." בבסיס, 0 + 0 = 0, ו"שני הצדדים שווים לפי ההגדרה." בצעד ("נניח 0 + n = n ונוכיח 0 + (n + 1) = n + 1"): "לפי הגדרת החיבור נפתח את המטרה, ונקבל שצריך להוכיח 0 + n + 1 = n + 1"; "לפי השוויון 0 + n = n נחליף את 0 + n ב־n בתוך המטרה, ונקבל שצריך להוכיח n + 1 = n + 1"; ו"שני הצדדים שווים לפי ההגדרה."
+**פתרון.** "נוכיח באינדוקציה על n." בבסיס, 0 + 0 = 0, ו"שני הצדדים שווים לפי ההגדרה." בצעד ("נניח 0 + n = n ונוכיח 0 + (n + 1) = n + 1"): "לפי הגדרת החיבור נפתח את המטרה, ונקבל שצריך להוכיח 0 + n + 1 = n + 1"; "לפי הנחת האינדוקציה 0 + n = n נחליף את 0 + n ב־n בתוך המטרה, ונקבל שצריך להוכיח n + 1 = n + 1"; ו"שני הצדדים שווים לפי ההגדרה."
 
 ![שלב 8.6](images/unit8-level6-a.png)
 
@@ -185,7 +185,7 @@
 
 **למה כך.** הדוגמה הראשונה ב־Mechanics of Proof. אחרי פתיחת הגדרת החזקה החשבון לינארי (2^n הוא "איבר" אחד), ולכן מספיק החשבון. בניגוד לשלבים 8.5–8.6, הנחת האינדוקציה היא אי־שוויון, ואין מה להחליף לפיה: בצעד משתמשים בה בחשבון בעזרת ההנחות, כמו בשלב 8.7, וטקסט הפתיחה אומר זאת. בבסיס אין הנחות, ומספיק החשבון מהמטרה לבדה, ולכן שני מהלכי החשבון בארגז.
 
-**פתרון.** "נוכיח באינדוקציה על n." בבסיס ("נוכיח 0 + 1 ≤ 2^0"): "נכונות המטרה נובעת מחשבון פשוט." בצעד ("נניח n + 1 ≤ 2^n ונוכיח (n + 1) + 1 ≤ 2^(n + 1)"): "לפי הגדרת החזקה נפתח את המטרה, ונקבל שצריך להוכיח n + 1 + 1 ≤ 2 ^ n · 2"; ו"נכונות המטרה נובעת מחשבון פשוט ומההנחות שבידינו."
+**פתרון.** "נוכיח באינדוקציה על n." בבסיס ("נוכיח 0 + 1 ≤ 2^0"): "נכונות המטרה נובעת מחשבון פשוט." בצעד ("נניח n + 1 ≤ 2^n ונוכיח (n + 1) + 1 ≤ 2^(n + 1)"): "לפי הגדרת החזקה נפתח את המטרה, ונקבל שצריך להוכיח n + 1 + 1 ≤ 2 ^ n · 2"; ו"נכונות המטרה נובעת מחשבון פשוט ומהנחת האינדוקציה."
 
 ![שלב 8.8](images/unit8-level8-a.png)
 
@@ -202,7 +202,7 @@
 
 **למה כך.** הנוסחה דורשת כפל של משתנים, ולכן היא מחוץ לטווח של החשבון; `grind` עושה את האלגברה. הנוסחה מנוסחת כ"פעמיים הסכום", כדי להימנע מחילוק במספרים טבעיים (אזהרה של HTPI). אחרי פתיחת ההגדרה המטרה מדברת על 2 · (sumTo(n) + (n + 1)), ולא על 2 · sumTo(n) כמו הנחת האינדוקציה, ולכן אי אפשר להחליף לפיה: האלגברה משתמשת בה, והבלוק אומר זאת. טקסט הפתיחה מסביר את זה. אין החלפה בארגז.
 
-**פתרון.** "נוכיח באינדוקציה על n." בבסיס ("נוכיח 2 · sumTo(0) = 0 · (0 + 1)"): "לפי הגדרת sumTo נפתח את המטרה, ונקבל שצריך להוכיח 2 · 0 = 0 · (0 + 1)", ו"שני הצדדים שווים לפי ההגדרה." בצעד ("נניח 2 · sumTo(n) = n · (n + 1) ונוכיח 2 · sumTo(n + 1) = (n + 1) · (n + 1 + 1)"): "לפי הגדרת sumTo נפתח את המטרה, ונקבל שצריך להוכיח 2 · (sumTo(n) + (n + 1)) = (n + 1) · (n + 1 + 1)"; ו"נכונות המטרה נובעת מאלגברה ומההנחות שבידינו."
+**פתרון.** "נוכיח באינדוקציה על n." בבסיס ("נוכיח 2 · sumTo(0) = 0 · (0 + 1)"): "לפי הגדרת sumTo נפתח את המטרה, ונקבל שצריך להוכיח 2 · 0 = 0 · (0 + 1)", ו"שני הצדדים שווים לפי ההגדרה." בצעד ("נניח 2 · sumTo(n) = n · (n + 1) ונוכיח 2 · sumTo(n + 1) = (n + 1) · (n + 1 + 1)"): "לפי הגדרת sumTo נפתח את המטרה, ונקבל שצריך להוכיח 2 · (sumTo(n) + (n + 1)) = (n + 1) · (n + 1 + 1)"; ו"נכונות המטרה נובעת מאלגברה ומהנחת האינדוקציה."
 
 ![שלב 8.9](images/unit8-level9-a.png)
 
@@ -237,7 +237,7 @@
 
 **למה כך.** סכום האי־זוגיים הוא תרגיל קלאסי שעובר ב־Lean הבסיסי (הבונוס שהוצע במקור, `3 ∣ n³ + 2n`, לא עובר גם עם `grind`). הטקסט מראה את הדוגמאות הראשונות (1, 4, 9), כדי שהסטודנט יראה את הדפוס לפני ההוכחה. בניגוד ל־8.9, כאן oddSum(n) מופיע במטרה אחרי הפתיחה בדיוק כמו בהנחת האינדוקציה, ולכן מחליפים לפיה, ואחר כך מספיקה אלגברה מהמטרה לבדה; טקסט הפתיחה אומר זאת. כך הצעד הוא כמו ב־8.5, עם אלגברה במקום חשבון.
 
-**פתרון.** "נוכיח באינדוקציה על n." בבסיס: "לפי הגדרת oddSum נפתח את המטרה, ונקבל שצריך להוכיח 0 = 0 · 0", ו"שני הצדדים שווים לפי ההגדרה." בצעד ("נניח oddSum(n) = n · n ונוכיח oddSum(n + 1) = (n + 1) · (n + 1)"): "לפי הגדרת oddSum נפתח את המטרה, ונקבל שצריך להוכיח oddSum(n) + (2 · n + 1) = (n + 1) · (n + 1)"; "לפי השוויון oddSum(n) = n · n נחליף את oddSum(n) ב־n · n בתוך המטרה, ונקבל שצריך להוכיח n · n + (2 · n + 1) = (n + 1) · (n + 1)"; ו"נכונות המטרה נובעת מאלגברה."
+**פתרון.** "נוכיח באינדוקציה על n." בבסיס: "לפי הגדרת oddSum נפתח את המטרה, ונקבל שצריך להוכיח 0 = 0 · 0", ו"שני הצדדים שווים לפי ההגדרה." בצעד ("נניח oddSum(n) = n · n ונוכיח oddSum(n + 1) = (n + 1) · (n + 1)"): "לפי הגדרת oddSum נפתח את המטרה, ונקבל שצריך להוכיח oddSum(n) + (2 · n + 1) = (n + 1) · (n + 1)"; "לפי הנחת האינדוקציה oddSum(n) = n · n נחליף את oddSum(n) ב־n · n בתוך המטרה, ונקבל שצריך להוכיח n · n + (2 · n + 1) = (n + 1) · (n + 1)"; ו"נכונות המטרה נובעת מאלגברה."
 
 ![שלב 8.11](images/unit8-level11-a.png)
 
@@ -269,6 +269,8 @@
   - [The Mechanics of Proof, 6](https://hrmacbeth.github.io/math2001/06_Induction.html)
 
 **ביחידה 9** אותו בלוק אינדוקציה עובד גם על רשימות, עצים ונוסחאות: הוא פותח חלק לכל דרך לבנות את המבנה של השלב. המספרים הטבעיים הם המקרה של שתי דרכים, 0 ו־n + 1, ולכן ביחידה הזאת הבלוק נשאר כמו שהוא.
+
+**הנחת האינדוקציה בשמה.** הוחלט (לבקשת מחבר הקורס) שמהלך שמשתמש בהנחת האינדוקציה יאמר זאת, כמו בהוכחה כתובה: החלפה לפיה נכתבת "לפי הנחת האינדוקציה … נחליף …" (במקום "לפי השוויון"), סיום שהמטרה בו היא ההנחה נכתב "זו בדיוק הנחת האינדוקציה.", וחשבון או אלגברה כשההנחות היחידות שבידינו הן הנחות האינדוקציה נכתבים "… ומהנחות האינדוקציה." (או "ומהנחת", כשיש אחת). הבלוק מזהה את ההנחות לפי הכותרת של החלק "צעד" שהוא נמצא בו; מחוץ לאינדוקציה הניסוח לא משתנה.
 
 ## שאלות שנוגעות ליחידה כולה
 

diff --git a/docs/curriculum/design/moves.md b/docs/curriculum/design/moves.md
@@ -14,6 +14,7 @@
   - "מהגרירה P → Q ומ־P נובע Q": את מה שנובע לא בוחרים; הוא נקבע לפי מה שנבחר.
   - "יש לנו ביד בדיוק את מה שאנחנו רוצים להוכיח.": בלי לבחור הנחה; Lean מחפש בכל מה שבידינו הנחה שאומרת את המטרה.
 - **מהלך שמשנה טענה כותב מה התקבל.** פתיחת הגדרה, החלפה לפי שוויון והחלפה לפי שקילות מוסיפים שורה "ונקבל שצריך להוכיח X" (במטרה) או "ונקבל Y" (בטענה שבידינו, שמצטרפת להנחות), לפי מצב ההוכחה ש־Lean מחזיר אחרי המהלך: באותה בדיקה אחת של Lean, לכל מהלך כזה נוצר גם משפט שנקטע אחריו. עד ש־Lean בודק, כתוב "ונקבל …". כך ההוכחה בבלוקים נקראת כהוכחה כתובה שלמה. פתיחת הגדרה אפשרית גם בטענה שבידינו, כמו ההחלפות.
+- **מהלך שמשתמש בהנחת האינדוקציה אומר זאת**, כמו בספרים ("by the inductive hypothesis"): בחלק "צעד" של אינדוקציה, החלפה לפי אחת מהנחות האינדוקציה נכתבת "לפי הנחת האינדוקציה … נחליף …", סיום שהמטרה בו היא ההנחה נכתב "זו בדיוק הנחת האינדוקציה.", וחשבון או אלגברה כשההנחות היחידות שבידינו הן הנחות האינדוקציה נכתבים "… ומהנחות האינדוקציה." הבלוק מזהה את ההנחות לפי הכותרת של החלק שהוא נמצא בו. זה אותו כלל, החלפה לפי שוויון, בניסוח שמסמן איפה האינדוקציה עובדת.
 - **מהלך שמפצל את ההוכחה כותב בראש כל חלק מה מוכיחים בו**, לפי מצב ההוכחה: "נוכיח P" ו"נוכיח Q" בהוכחת "וגם", "מקרה ראשון: נניח P" בחלוקה למקרים, "בסיס: נוכיח P(0)" ו"צעד: נניח P(n) ונוכיח P(n + 1)" באינדוקציה. באינדוקציה מבנית (יחידה 9) יש חלק לכל דרך לבנות את המבנה של השלב, למשל "בסיס: נוכיח P(leaf)" ו"צעד: נניח P(l) ו־P(r) ונוכיח P(node(l,r))".
 - **בחירה לפי הטענה גם כשבוחרים צד או כיוון**: בהוכחת "או" בוחרים את הצד מרשימה של שני הצדדים של המטרה ("כדי להוכיח Q ∨ P די להוכיח [P]"), ובהחלפה לפי שוויון הכיוון מוצג כהחלפה עצמה ("נחליף את y ב־x + 7").
 - **לעצמים יש שמות**, כמו בהוכחה כתובה ("יהי x₀ עצם שרירותי"). מהלך שמוסיף עצם נותן לו את שם המשתנה שבטענה עם אינדקס, x₀ (ואם השם תפוס, x₁), כדי שלא יתבלבל עם המשתנה הקשור שבטענה. לאיבר של קבוצת חזקה קוראים X₀. בצעד של אינדוקציה המשתנה שומר על שמו ("נניח P(n) ונוכיח P(n + 1)"), כמו ב־Logic and Proof.
